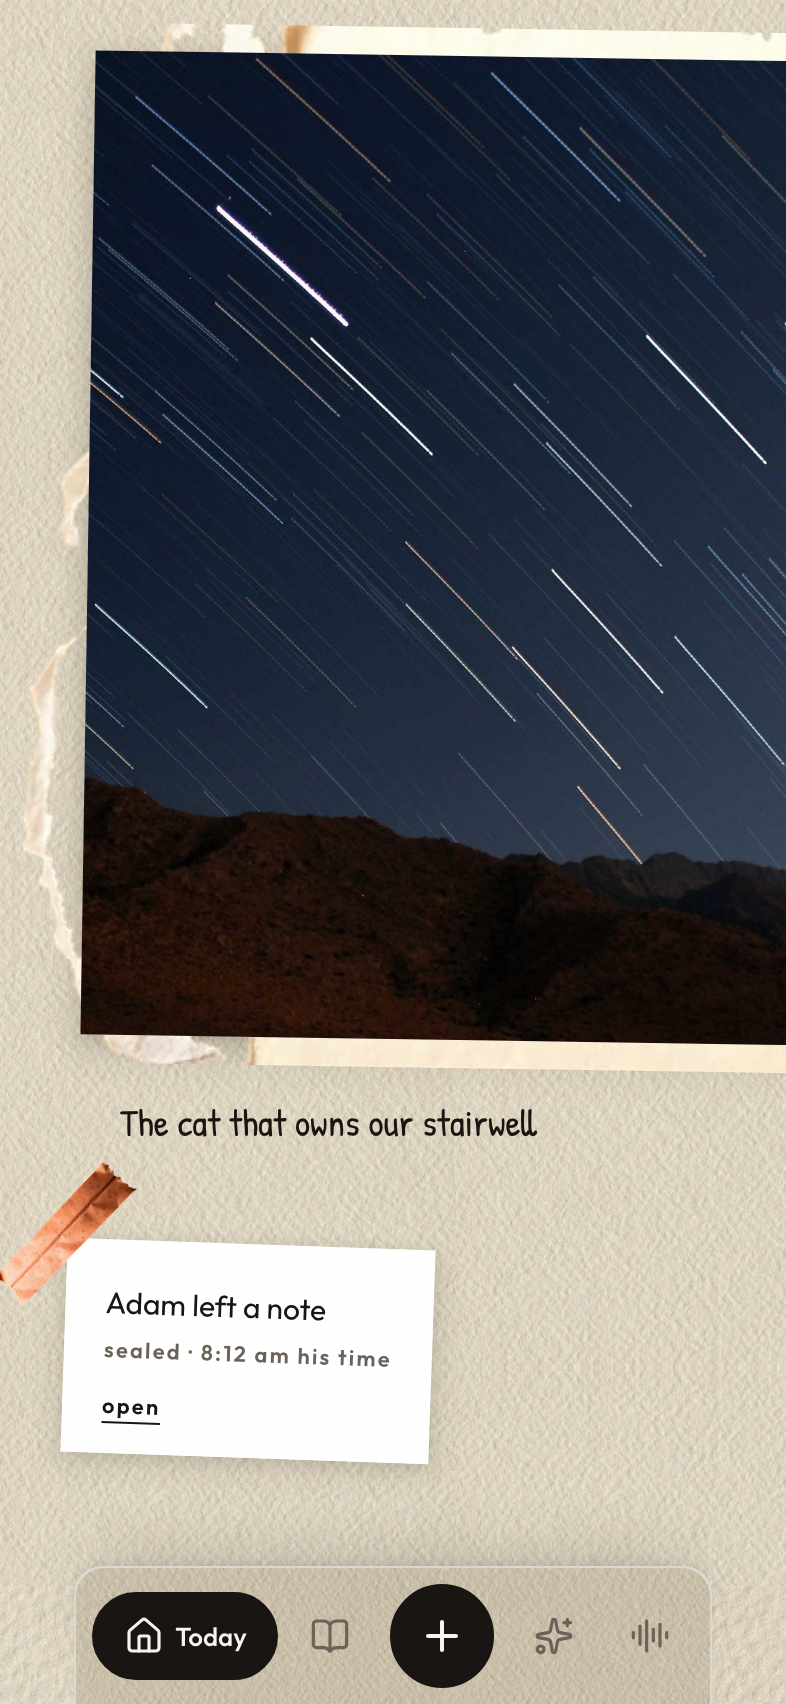
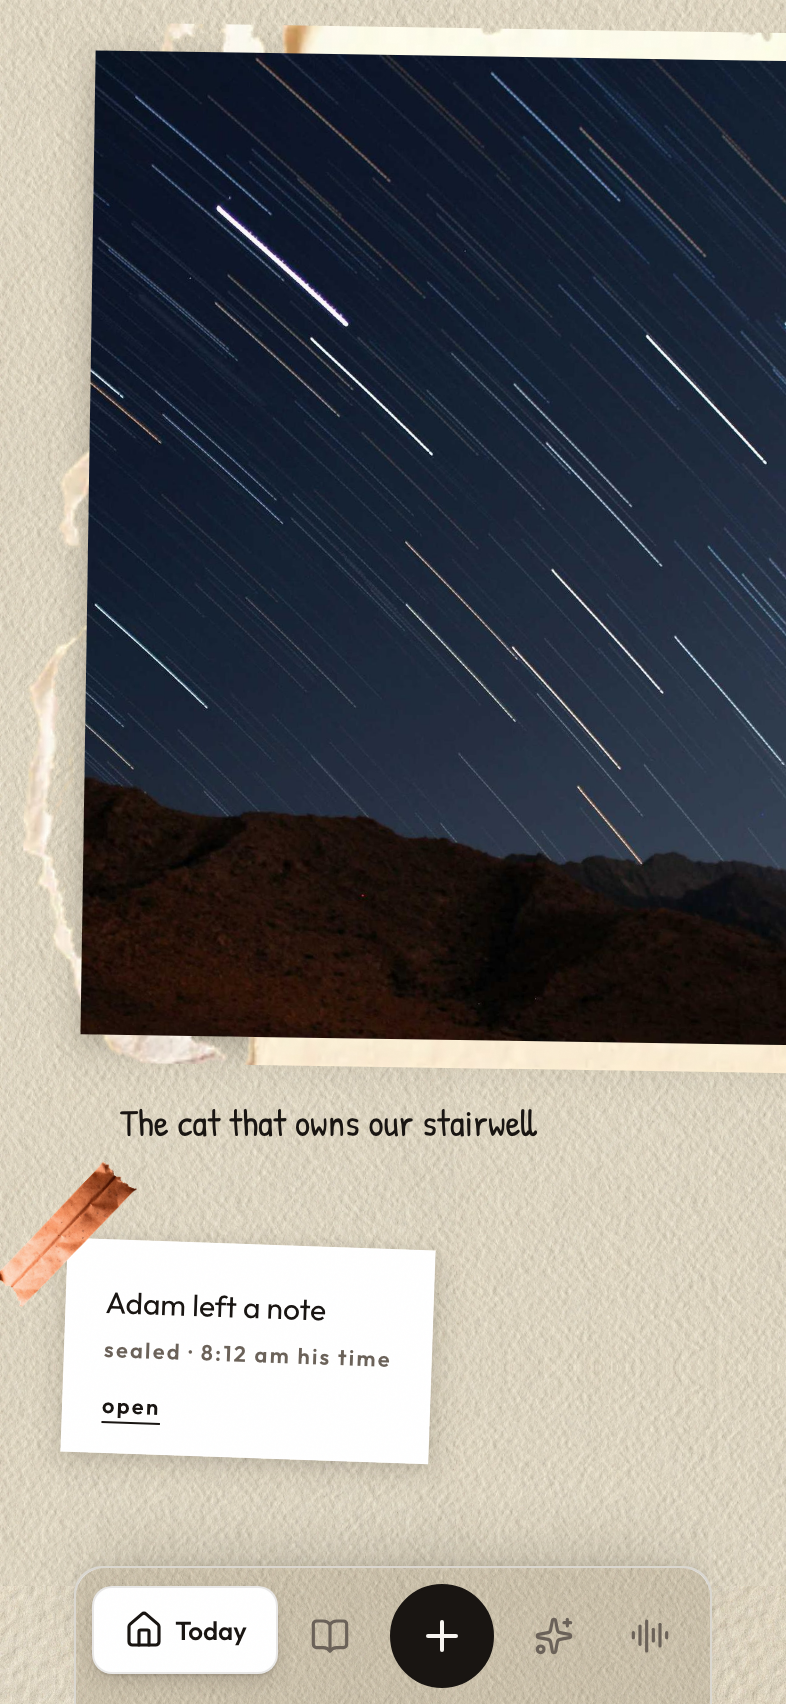
fix(design): three critiques answered on pixels — chip, dead zone, fog
1. The active tab stops being an ink capsule riding on the tray —
   the last tab-bar affordance in the product. It becomes the tool
   you picked up: a paper chip sitting 3px proud of the tray floor,
   face catching the lamp, tight contact shadow beneath, ink on
   paper. Same layoutId spring carries it. At night the lifted chip
   measures 156 vs floor 141 — the note-lighter-than-its-table gate
   (§9.2) holds on the tray too.

2. The vertical dead zone between TEL AVIV and the rooftops is
   compressed (scene 260 -> 228): the horizontal emptiness between
   the shores is the subject; the vertical emptiness was not.

3. The seam falloff hazed because the accepted geometry held 0.55-
   0.8 opacity for ~45px — measured luminance fell 129 -> 18 over
   ~104 CSS px by day, 97 -> 18 by night: §9.6's fog mechanism in
   BOTH modes, night just leaking a dimmer page. The mid-band now
   commits (0.6 -> 0.9 over ~20px) and the long deep end runs
   nearly opaque, so the slow deepening that gives night its
   distance happens between lum 40 and 18 instead of 129 and 18.
   Re-measured both modes: fog band 104px -> 24px, and what
   remains is the lit torn lip itself.

Changed region(s): [[0.0916, 0.9331, 0.3664, 0.9953]]

diff --git a/apps/web/components/materials/Seam.tsx b/apps/web/components/materials/Seam.tsx
@@ -75,22 +75,34 @@ const FIBRE: Record<SeamVariant, { src: string; width: number; height: number }>
  * Falloff stops, as fractions of the container at the 393px baseline
  * (height 256; the fibre tips land at ~54%, measured from the
  * coldpress alpha channel). The shape is asymmetric on purpose, and
- * it was chosen against pixels, not by argument — four geometries
- * were screenshot in both modes:
+ * it has now been chosen against pixels twice:
  *
- *   - The ramp under the fibre is STEEP (0 → 0.6 over ~15px): by day
+ *   - The ramp under the fibre is STEEP (0 → 0.6 over ~20px): by day
  *     the canvas is bright, and every semi-transparent pixel below
  *     the tear leaks page-light into the window — a slow start reads
- *     as fog, not depth.
- *   - The deep end is LONG (0.6 → night-sky over ~90px): by night
- *     both sides are dark, and the slow deepening is what gives the
- *     sky distance. A short deep end reads as a colour block.
+ *     as fog, not depth. Unchanged; measured correct.
+ *
+ *   - The mid-band COMMITS fast (0.6 → 0.9 over the next ~20px).
+ *     The first accepted geometry held 0.55–0.8 opacity for ~45px,
+ *     and the measured luminance profile (2026-08-06, both modes)
+ *     showed why it still hazed: a ~104px descent from lum 129 to 18
+ *     by day, 97 to 18 by night — §9.6's fog mechanism operating in
+ *     BOTH modes, night simply leaking a dimmer page. At 0.9 the day
+ *     leak is ~+22 luminance over the sky; at 0.8 it was ~+45 and
+ *     read as a grey transitional band.
+ *
+ *   - The deep end stays LONG but runs NEARLY OPAQUE (0.9 → 0.97 →
+ *     night-sky over ~55px): the slow deepening that gives the night
+ *     sky its distance now happens between lum ~24 and 18 instead of
+ *     between ~90 and 18. Distance survives; the fog does not. A
+ *     short deep end still reads as a colour block — that finding
+ *     stands.
  *
  * The fibre itself stays inside the transparent zone — light remains
  * on the torn lip. Straight-to-dark read as a mask in every capture.
  */
 const FALLOFF =
-  "linear-gradient(to bottom, rgb(13 18 32 / 0) 0%, rgb(13 18 32 / 0) 47%, rgb(13 18 32 / 0.55) 55%, rgb(13 18 32 / 0.8) 72%, var(--night-sky) 93%)";
+  "linear-gradient(to bottom, rgb(13 18 32 / 0) 0%, rgb(13 18 32 / 0) 47%, rgb(13 18 32 / 0.6) 55%, rgb(13 18 32 / 0.9) 63%, rgb(13 18 32 / 0.97) 74%, var(--night-sky) 93%)";
 
 export function Seam({ variant = "coldpress", height = 256, className }: SeamProps) {
   const fibre = FIBRE[variant];

diff --git a/apps/web/components/chrome/Dock.tsx b/apps/web/components/chrome/Dock.tsx
@@ -128,18 +128,35 @@ function DockTab({
     <Link
       href={tab.href}
       aria-current={active ? "page" : undefined}
-      className={`press relative flex h-11 items-center justify-center rounded-full transition-colors duration-200 ${
-        active ? "px-4 text-on-ink" : "w-11 text-mute"
+      className={`press relative flex h-11 items-center justify-center rounded-[10px] transition-colors duration-200 ${
+        active ? "px-4 text-ink" : "w-11 text-mute"
       }`}
     >
       {active ? (
+        /* The tool you picked up — a paper chip sitting proud of the
+           tray floor, 3px high (static offsets, never animated ones),
+           its face catching the lamp along the top edge, a tight
+           contact shadow beneath it on the floor. Ink on paper: the
+           chip is an object in the light, not a filled control. The
+           old ink capsule was a tab-bar affordance riding on a tray;
+           a capsule that slides is Linear, a lifted tool is a
+           scrapbook. Cut corner (radius-md) because paper is cut —
+           pills are for controls, which this no longer is. */
         <motion.span
           layoutId="dock-active"
           transition={transition}
-          className="pill-ink absolute inset-0 rounded-full"
+          className="absolute inset-x-0 -top-[3px] bottom-[3px] rounded-[10px] border border-line bg-surface"
+          style={{
+            boxShadow:
+              "inset 0 1px 0 rgba(255, 255, 255, 0.7), 0 1px 1px rgba(41, 32, 24, 0.1), 0 4px 10px -2px rgba(41, 32, 24, 0.2)",
+          }}
         />
       ) : null}
-      <span className="relative flex items-center gap-1.5">
+      <span
+        className={`relative flex items-center gap-1.5 ${
+          active ? "-translate-y-[3px]" : ""
+        }`}
+      >
         <Icon size={20} strokeWidth={1.9} />
         {active ? (
           <motion.span

diff --git a/apps/web/app/(app)/today/page.tsx b/apps/web/app/(app)/today/page.tsx
@@ -129,7 +129,13 @@ export default function TodayPage() {
             far towers, so each shore carries its own depth. Both
             cities at full strength, equal weight — neither of them
             is the far one; they are both "here", one per person. */}
-        <div className="relative mt-2 h-[260px] overflow-hidden">
+        {/* Height judged by eye against the vertical dead zone: at 260
+            the band between TEL AVIV and the rooftops read as
+            under-filled rather than intended (the horizontal emptiness
+            between the shores is the subject; vertical emptiness was
+            not). 228 brings the crown up under the names with ~30px of
+            true sky left above it. */}
+        <div className="relative mt-2 h-[228px] overflow-hidden">
           <img
             src="/materials/deco-nyc-shore.webp"
             alt=""
